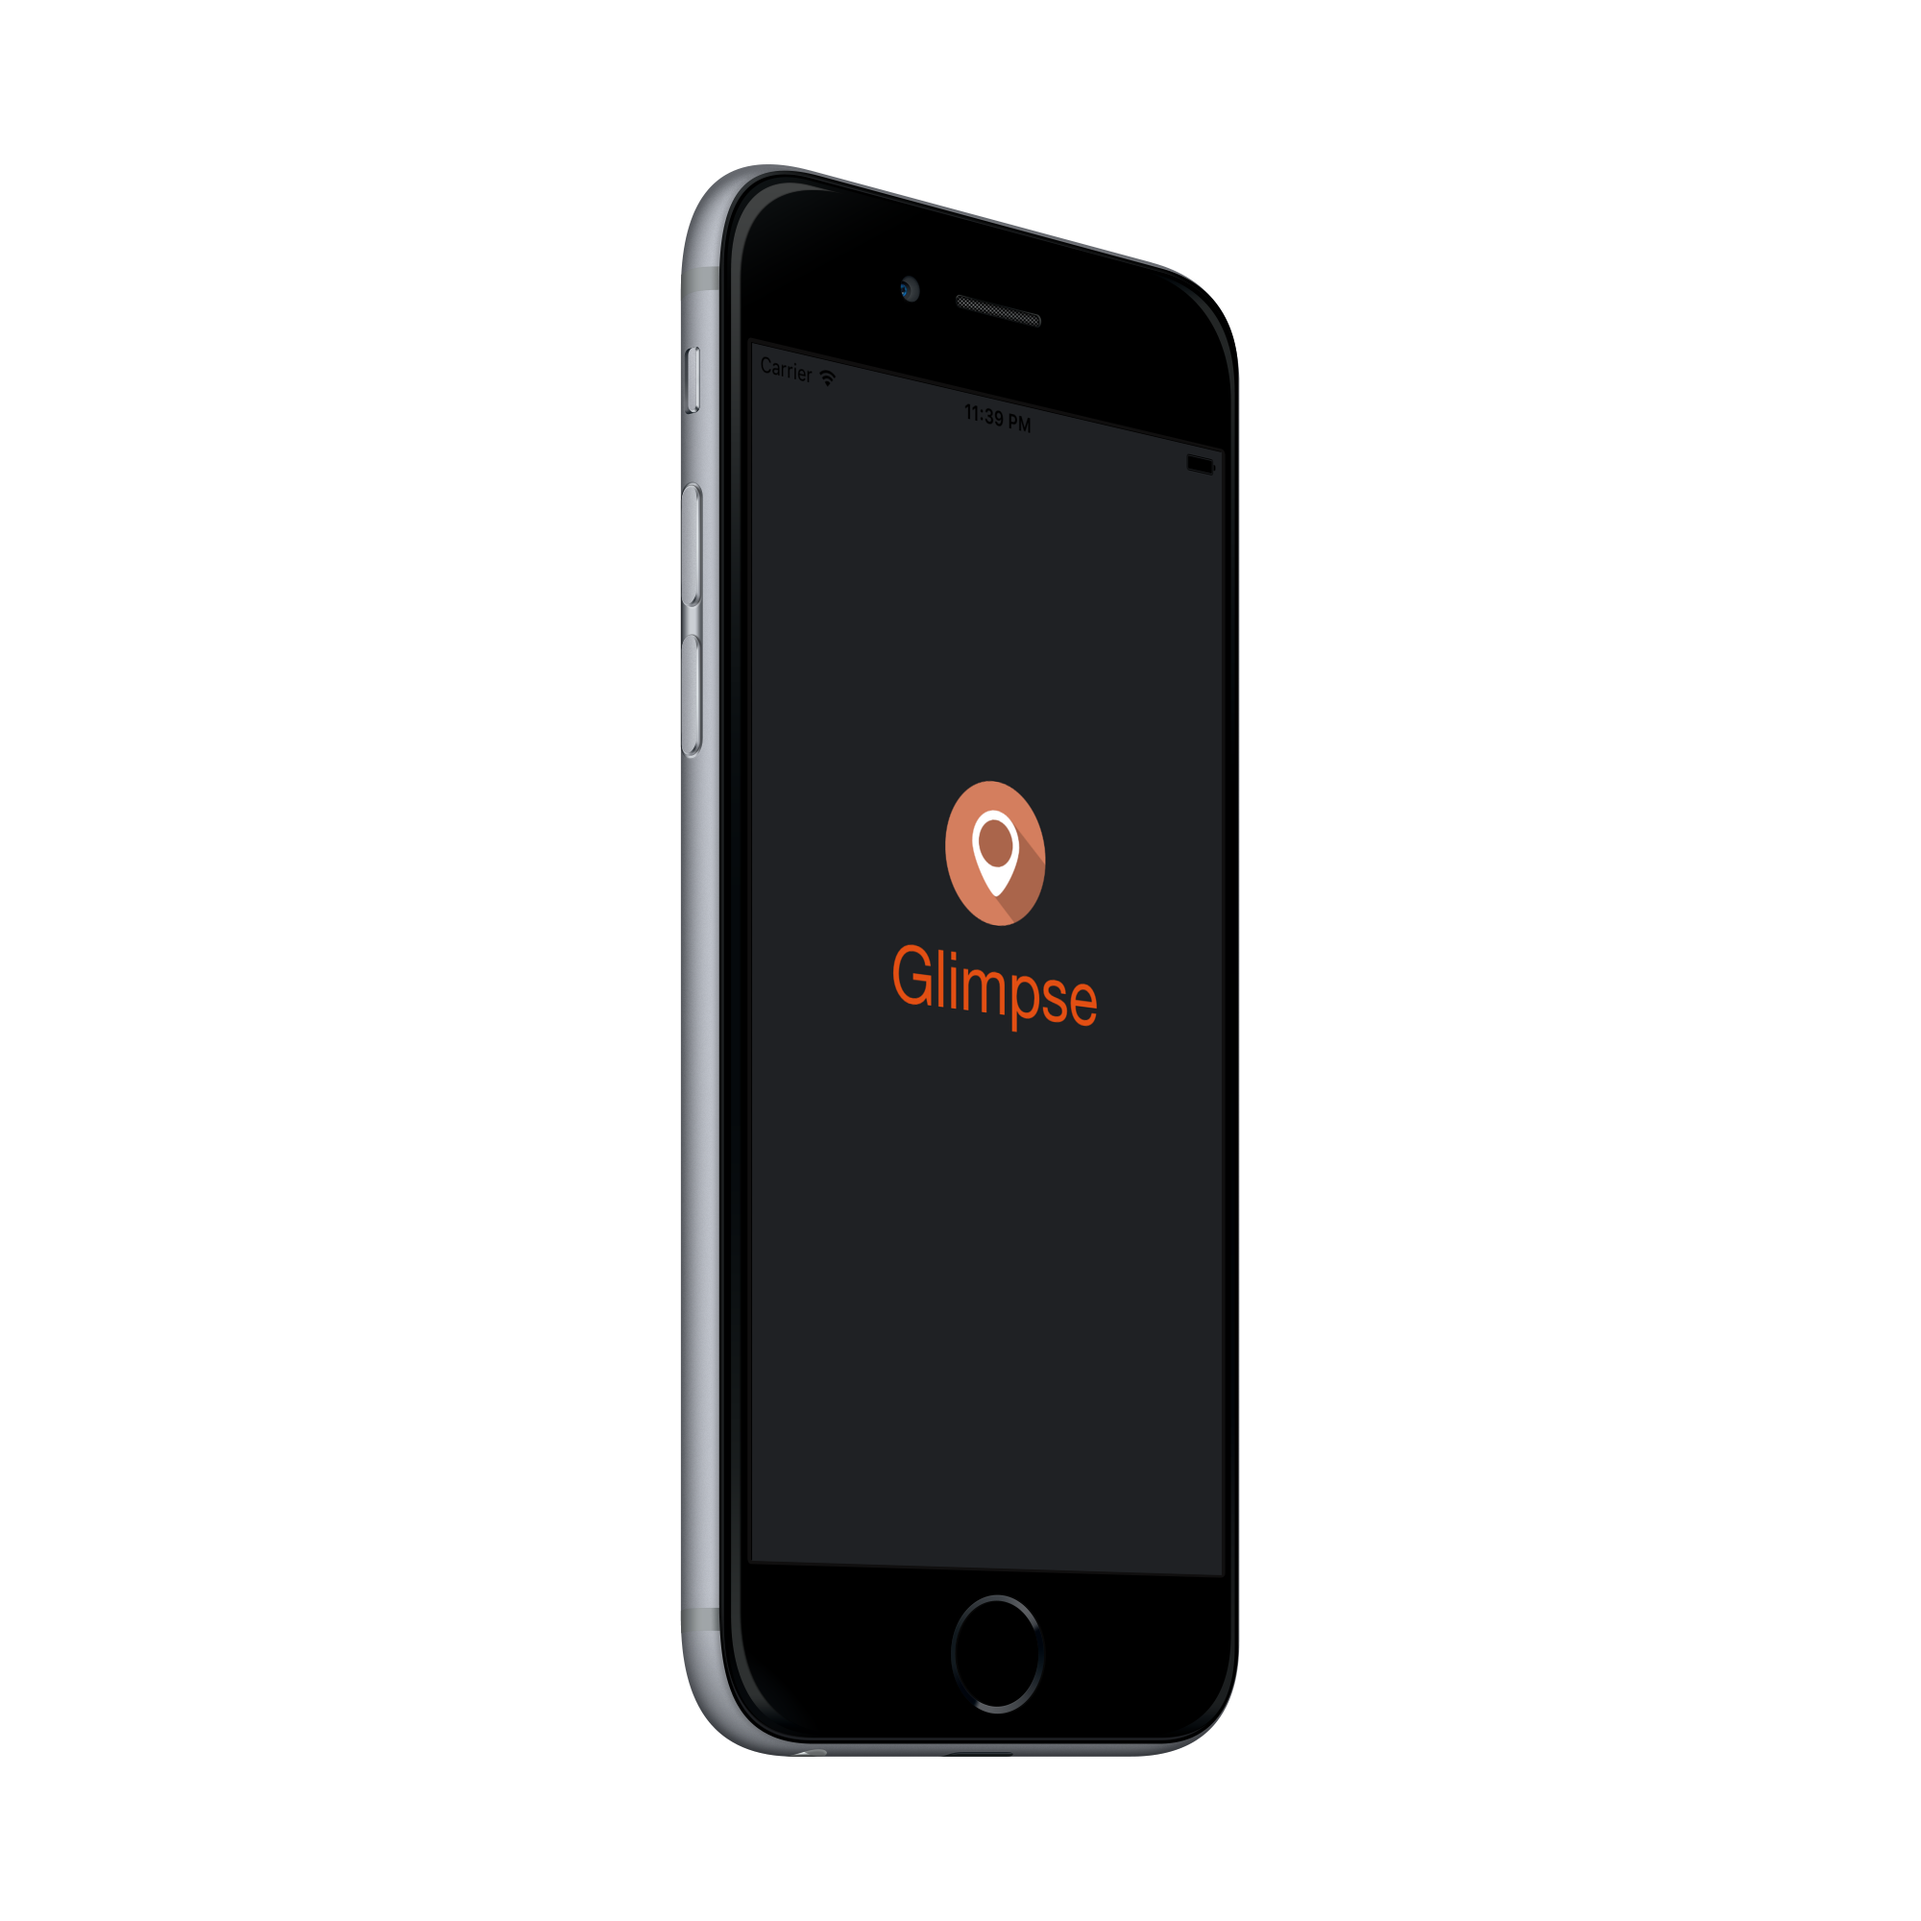
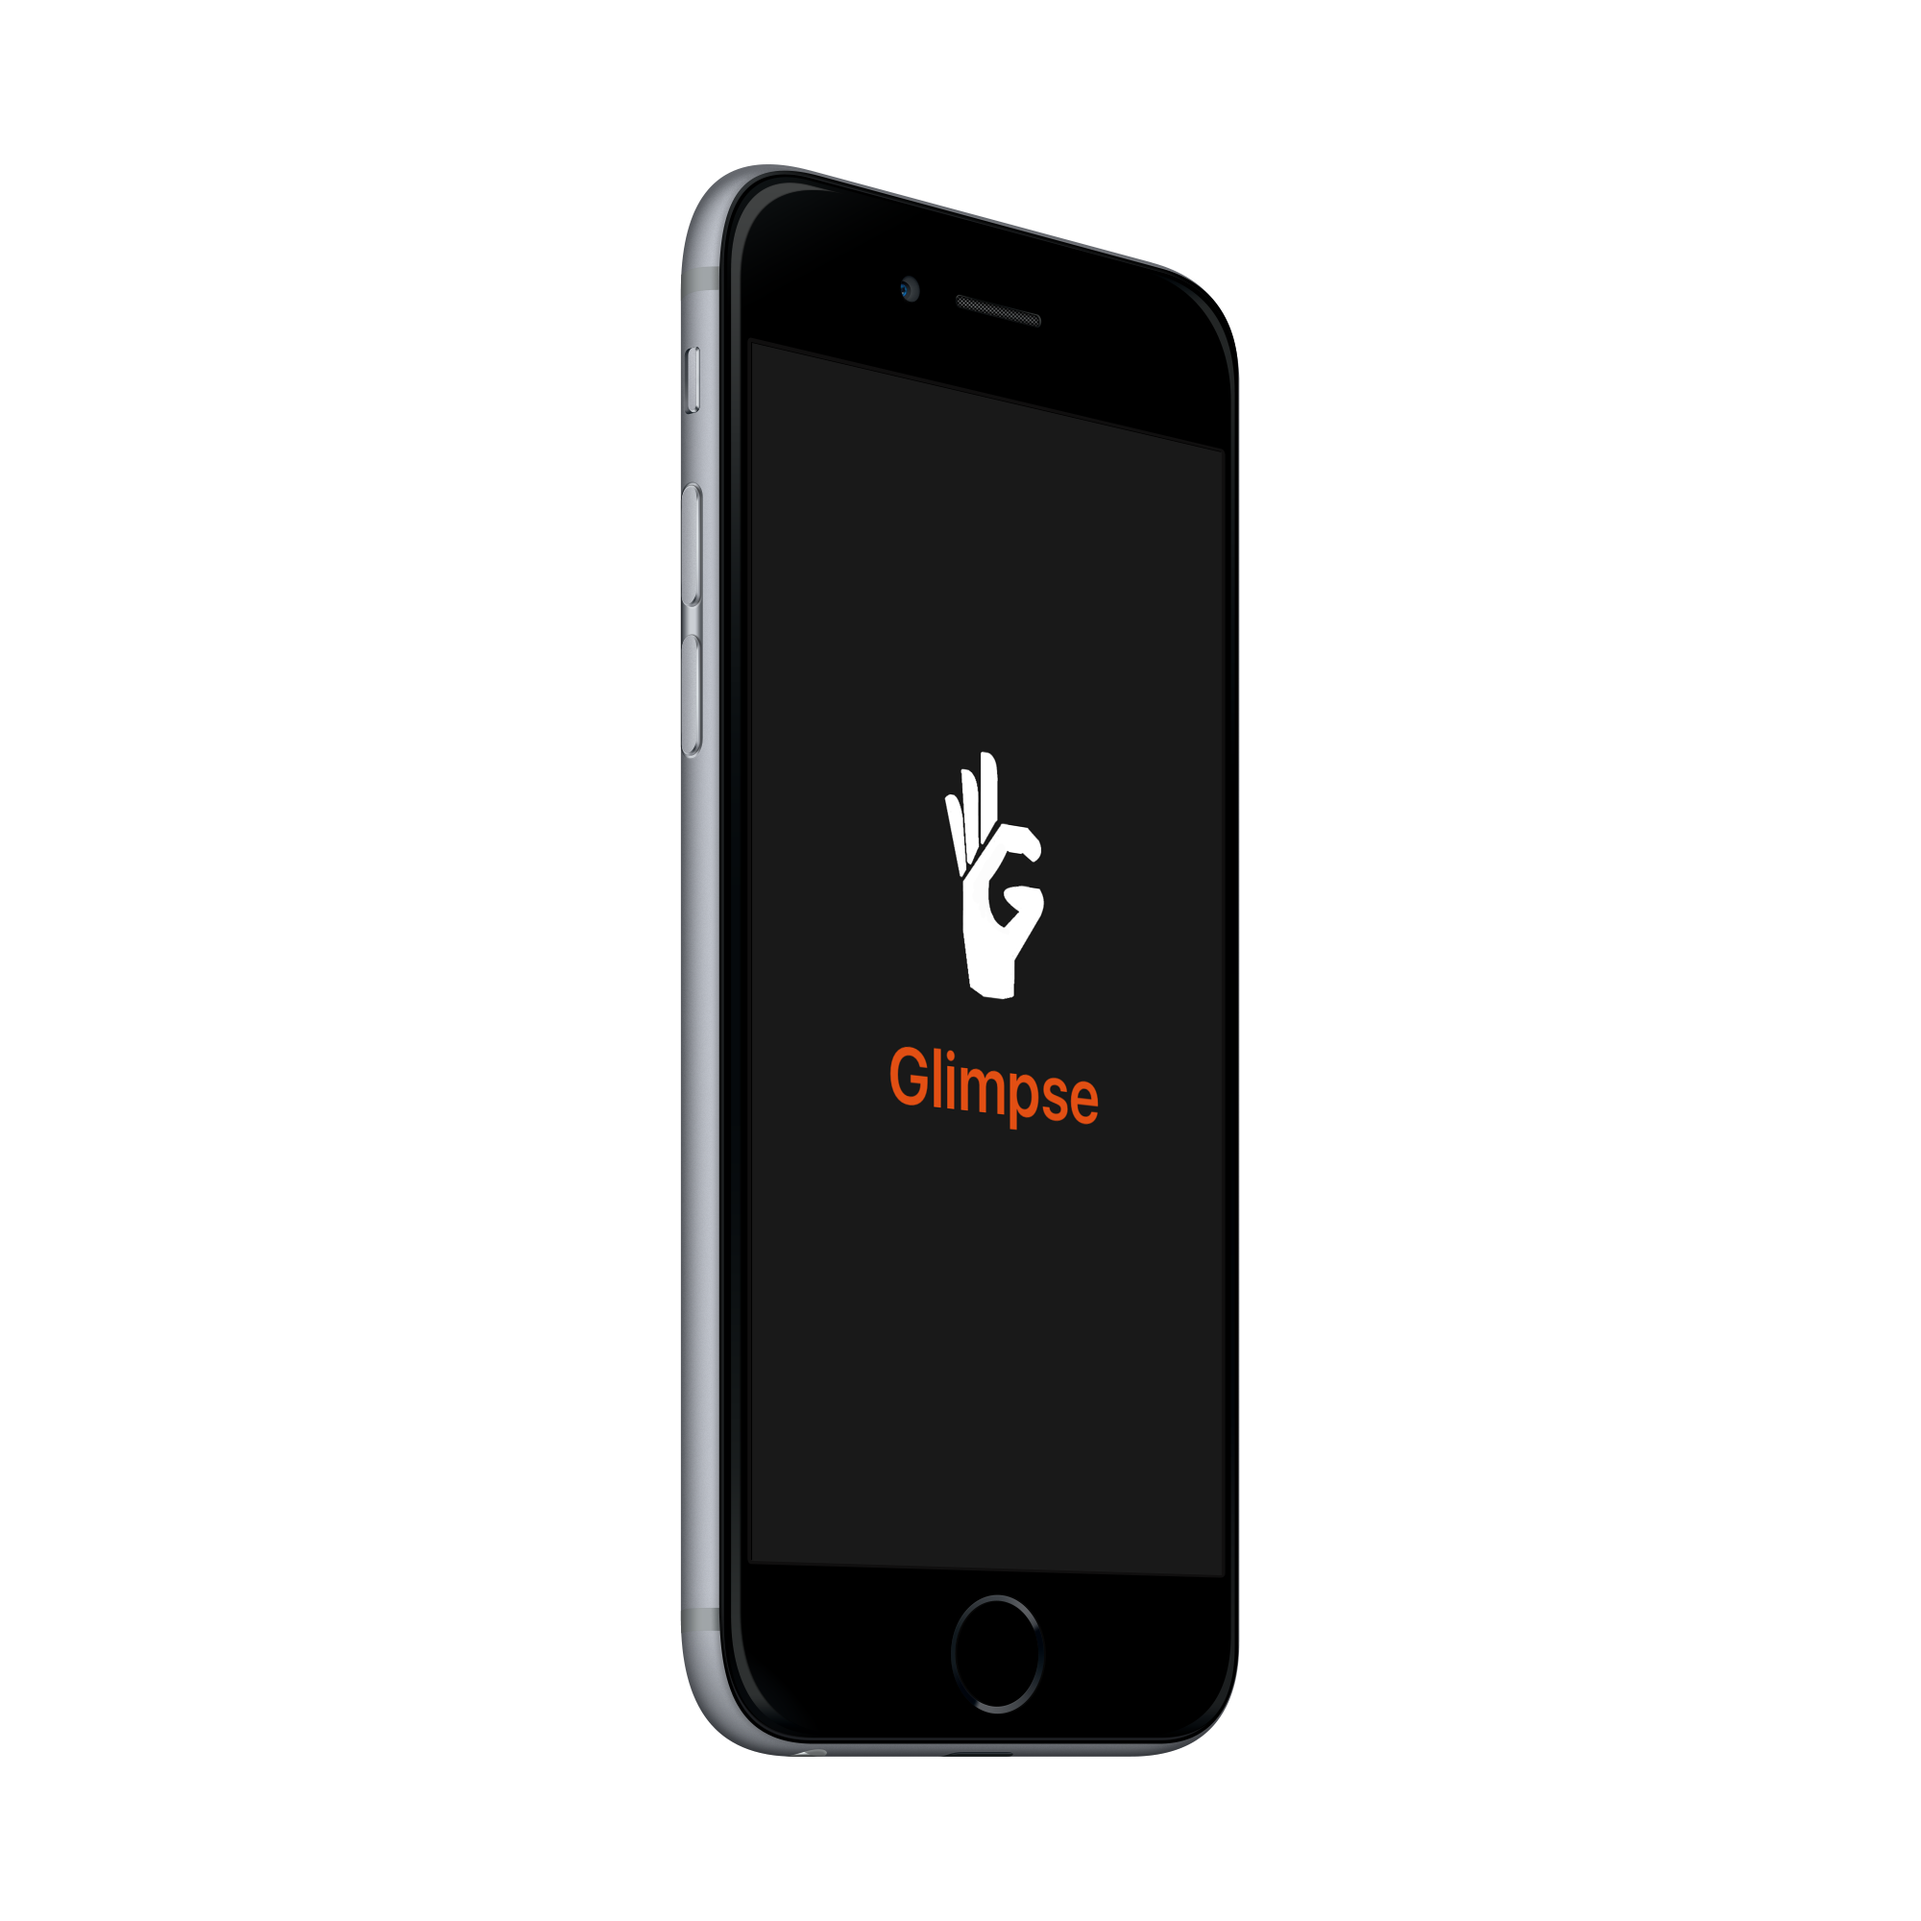
latest changes
new web icon
new mockup image
new js code
new map display

Changed region(s): [[0.465, 0.372, 0.589, 0.589]]

diff --git a/public/js/custom.js b/public/js/custom.js
@@ -115,3 +115,68 @@ function keyHandler(e)
             parseSignupRequest();
     }
 }
+
+function fetchAllPosts(){
+    var Post = Parse.Object.extend("Post");
+    var query = new Parse.Query(Post);
+    
+    query.find({
+        success: function(results) {
+            console.log("* Found " + results.length + " Posts");
+            
+            var locations = [];
+            
+            for (var a=0; a< results.length; a++){
+                var post = results[a];
+                var comment = post.get("comment");
+                console.log(" - Title: " + comment);
+                
+                var geoPoint = post.get("location");
+                // [Locations] > ['Maroubra Beach', -33.950198, 151.259302, 1]
+                var postProperty = [comment, geoPoint.latitude, geoPoint.longitude, 1];
+                
+                locations.push(postProperty);
+            }
+            populateMap(locations);
+        },
+        error: function(error) {
+            console.log("! No Posts Found!");
+        }
+    });
+}
+
+function centerMap(){
+    var map = new google.maps.Map(document.getElementById('map'), {
+      zoom: 12,
+      center: new google.maps.LatLng(43.644647, -79.384847),
+      mapTypeId: google.maps.MapTypeId.ROADMAP
+    });
+}
+
+function populateMap(locations){
+    
+    var map = new google.maps.Map(document.getElementById('map'), {
+      zoom: 12,
+      center: new google.maps.LatLng(43.644647, -79.384847),
+      mapTypeId: google.maps.MapTypeId.ROADMAP
+    });
+
+    var infowindow = new google.maps.InfoWindow();
+
+    var marker, i;
+
+    for (i = 0; i < locations.length; i++) 
+    { 
+      marker = new google.maps.Marker({
+        position: new google.maps.LatLng(locations[i][1], locations[i][2]),
+        map: map
+      });
+
+      google.maps.event.addListener(marker, 'click', (function(marker, i) {
+        return function() {
+          infowindow.setContent(locations[i][0]);
+          infowindow.open(map, marker);
+        }
+      })(marker, i));
+    }
+}

diff --git a/public/index.html b/public/index.html
@@ -14,12 +14,10 @@
     <meta name="viewport" content="width=device-width, initial-scale=1.0">
 
     <!-- Favicon -->
-    <link rel="shortcut icon" href="images/company.png">
+    <link rel="shortcut icon" href="images/Logo_BW.png">
 
     <!-- Google Icons -->
     <link rel="stylesheet" href="https://fonts.googleapis.com/icon?family=Material+Icons">
-
-
 
     <!-- Web Fonts -->
     <link href='http://fonts.googleapis.com/css?family=Roboto:400,300,300italic,400italic,500,500italic,700,700italic' rel='stylesheet' type='text/css'>
@@ -241,8 +239,12 @@
 			<!-- section start -->		
                 <!-- Map -->
                  <section id="contact" class="map" style="height:400px">
+                    <!--    Dynamic Map    -->
+                    <div id="map" style="height: 100%; width: 100%;">
+                    <!--
                     <iframe id="map" width="100%" height="100%" frameborder="0" scrolling="no" marginheight="0" marginwidth="0" 
                         src="https://www.google.com/maps/embed/v1/view?zoom=13&center=43.6532%2C-79.3832&key=AIzaSyBxx_XH83SmVUB2i8-p0Xcx4HdJt4xKN4I" allowfullscreen></iframe>
+                    -->
                     <br/>
                 </section>
 			<!-- section end -->
@@ -312,11 +314,18 @@
 		<script type="text/javascript" src="js/custom.js"></script>
         
         <script type="text/javascript" src="http://www.parsecdn.com/js/parse-latest.js"></script>
-        
+        <script src="https://maps.googleapis.com/maps/api/js?key=AIzaSyBxx_XH83SmVUB2i8-p0Xcx4HdJt4xKN4I" type="text/javascript"></script>
+            
         <!-- Database Connection JS -->
         <script type="text/javascript">
             // Start Parse
             ParseInit();
+            
+            // Center the map
+            centerMap();
+            
+            // Load the Map with Posts
+            fetchAllPosts();
             
             // Key binding
             attachKeyBindings();
